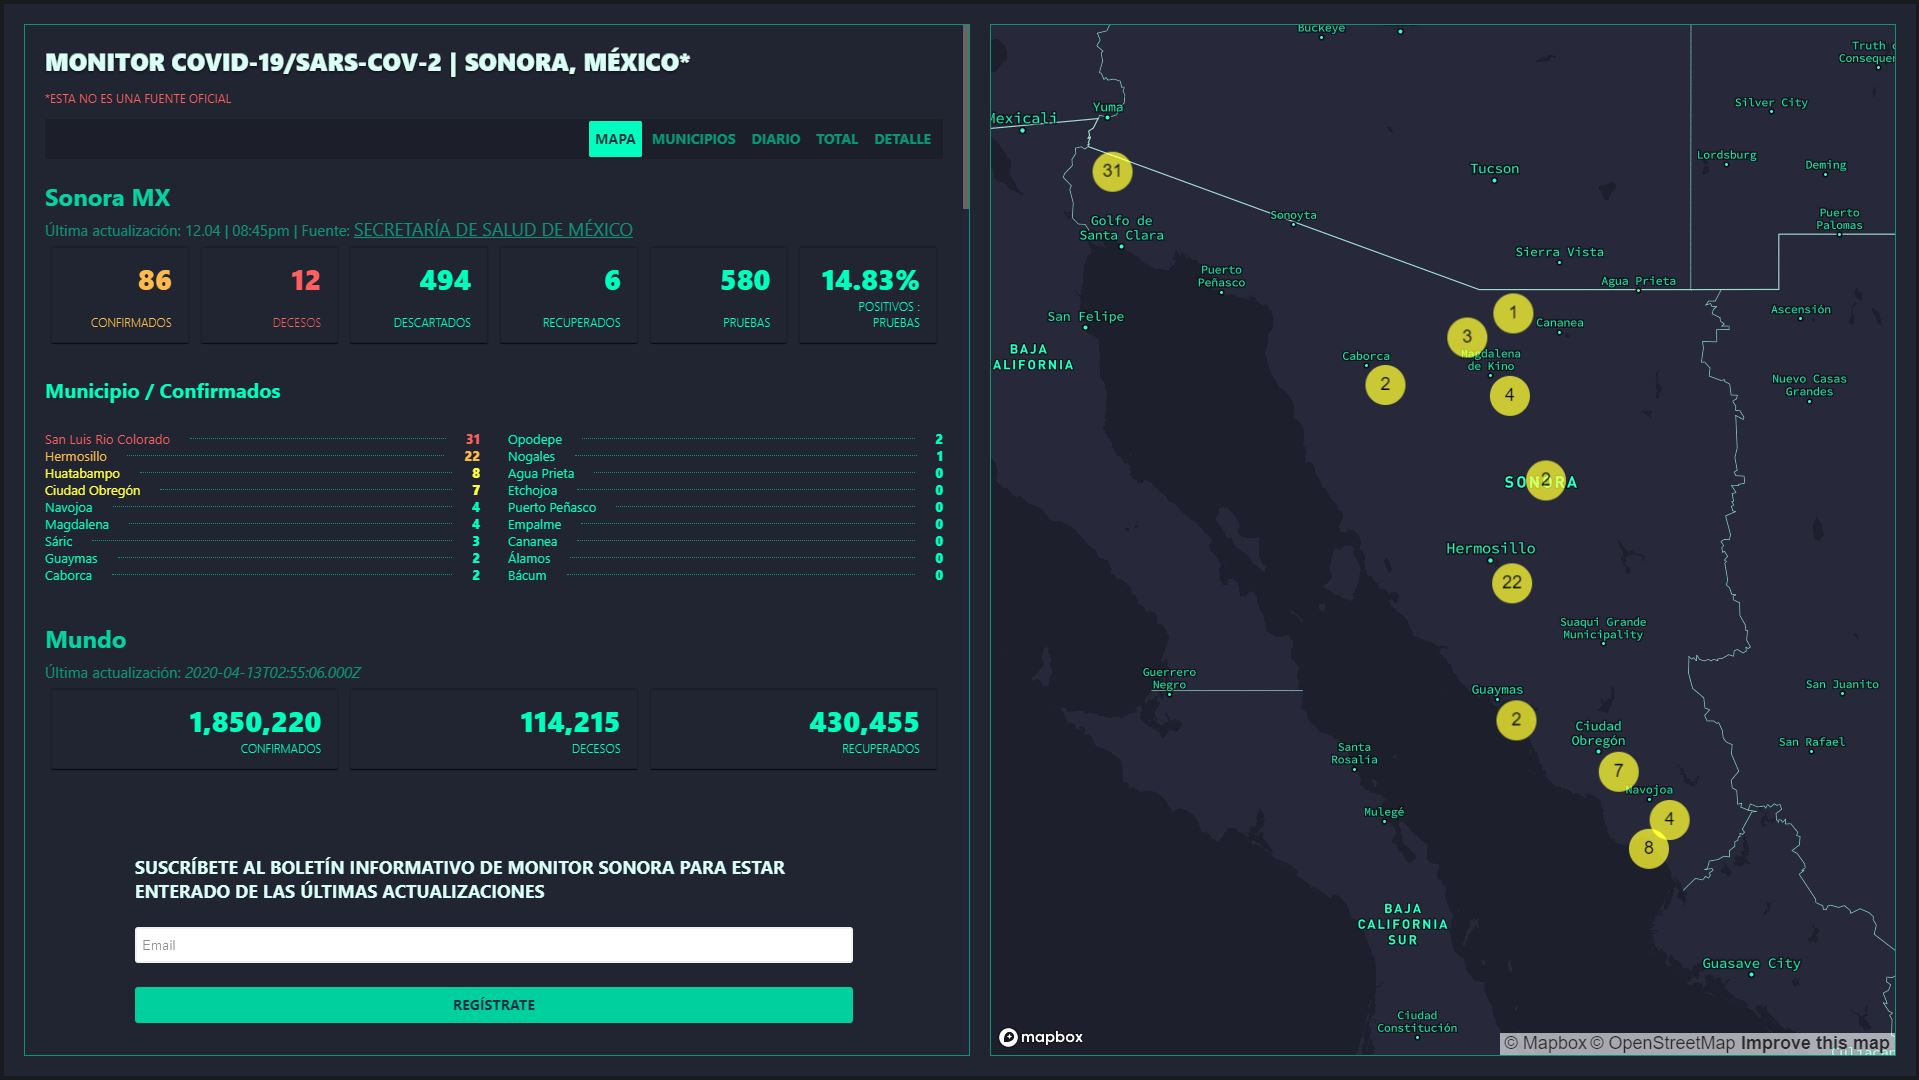
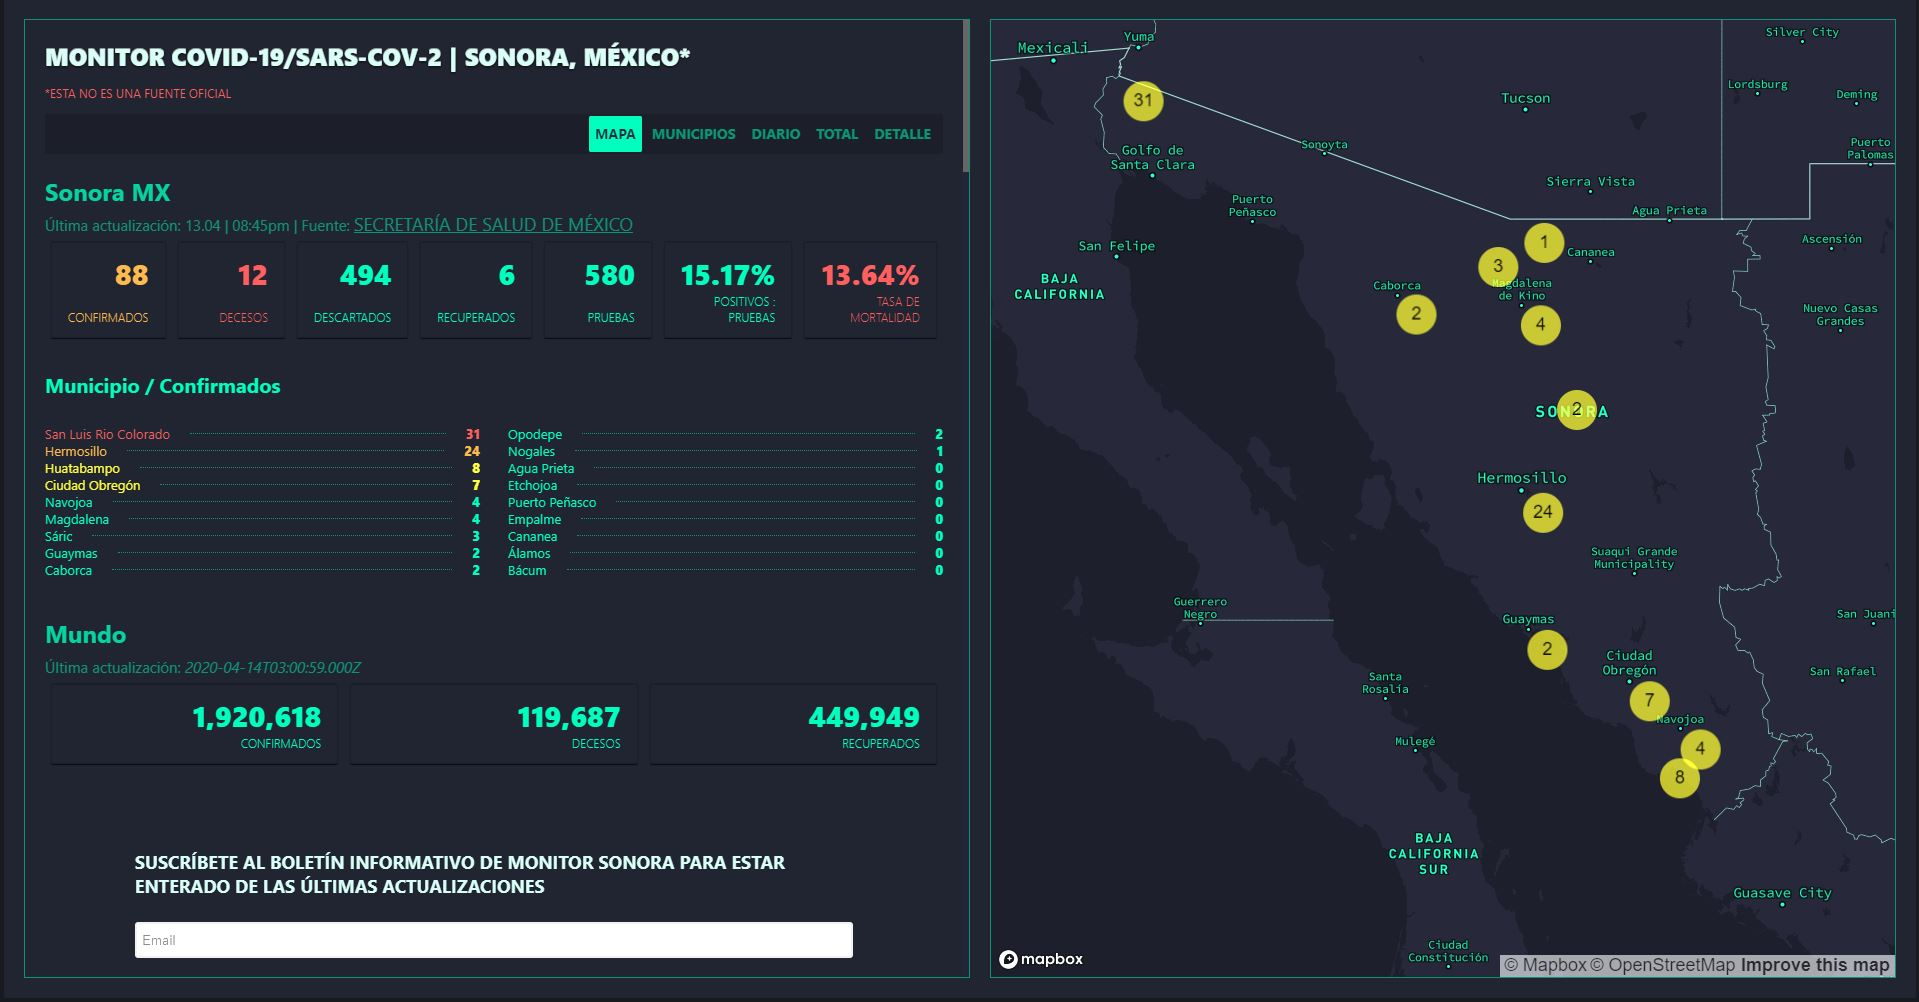
actualización de datos

diff --git a/src/db/SonoraData.js b/src/db/SonoraData.js
@@ -3,7 +3,7 @@ const data = [
     id: 0,
     name: "Hermosillo",
     capital: "Hermosillo",
-    confirmed: 24,
+    confirmed: 25,
     deaths: 0,
     compromised: 0,
     status: null,
@@ -68,7 +68,7 @@ const data = [
     id: 5,
     name: "San Luis Rio Colorado",
     capital: "San Luis Rio Colorado",
-    confirmed: 31,
+    confirmed: 35,
     deaths: 0,
     compromised: 0,
     status: null,
@@ -81,7 +81,7 @@ const data = [
     id: 6,
     name: "Caborca",
     capital: "Caborca",
-    confirmed: 2,
+    confirmed: 4,
     deaths: 0,
     compromised: 0,
     status: null,
@@ -107,7 +107,7 @@ const data = [
     id: 8,
     name: "Huatabampo",
     capital: "Huatabampo",
-    confirmed: 8,
+    confirmed: 9,
     deaths: 0,
     compromised: 0,
     status: null,
@@ -211,7 +211,7 @@ const data = [
     id: 16,
     name: "Sáric",
     capital: "Sáric",
-    confirmed: 3,
+    confirmed: 4,
     deaths: 0,
     compromised: 0,
     status: null,

diff --git a/src/components/Charts.js b/src/components/Charts.js
@@ -75,6 +75,7 @@ const confirmed = {
         14,
         3,
         2,
+        9,
       ],
     },
   ],
@@ -160,6 +161,7 @@ const accumulated = {
         83,
         86,
         88,
+        97,
       ],
     },
   ],
@@ -243,15 +245,15 @@ export function ConfirmedByProvinceChart() {
 
 const data = {
   labels: [
-    "Recuperados 6.818%",
-    "Estables/Domicilio - 67.045%",
-    "Estables/Hospital - 5.682%",
-    "Graves/Hospital - 6.818%",
-    "Fallecidos - 13.636%",
+    "Recuperados 6.186%",
+    "Estables/Domicilio - 68.041%",
+    "Estables/Hospital - 6.186%",
+    "Graves/Hospital - 7.216%",
+    "Fallecidos - 12.371%",
   ],
   datasets: [
     {
-      data: [6, 59, 5, 6, 12],
+      data: [6, 66, 6, 7, 12],
       borderColor: "hsla(164, 23%, 3%, 0.6)",
       backgroundColor: [
         "hsla(163, 72%, 100%, 0.9)",

diff --git a/src/components/Sonora.js b/src/components/Sonora.js
@@ -9,12 +9,12 @@ export default function Sonora() {
   });
 
   const dataTotals = {
-    confirmed: 88,
+    confirmed: 97,
     deaths: 12,
     // suspicious: 67,
-    negatives: 494,
+    negatives: 554,
     recoveries: 6,
-    tests: 580,
+    tests: 651,
   };
 
   var result = (dataTotals.confirmed / dataTotals.tests) * 100;
@@ -24,7 +24,7 @@ export default function Sonora() {
     <>
       <p>
         <small>
-          Última actualización: 13.04 | 08:45pm | Fuente:{" "}
+          Última actualización: 14.04 | 08:45pm | Fuente:{" "}
           <a href="https://www.gob.mx/salud/">SECRETARÍA DE SALUD DE MÉXICO</a>
         </small>
       </p>
